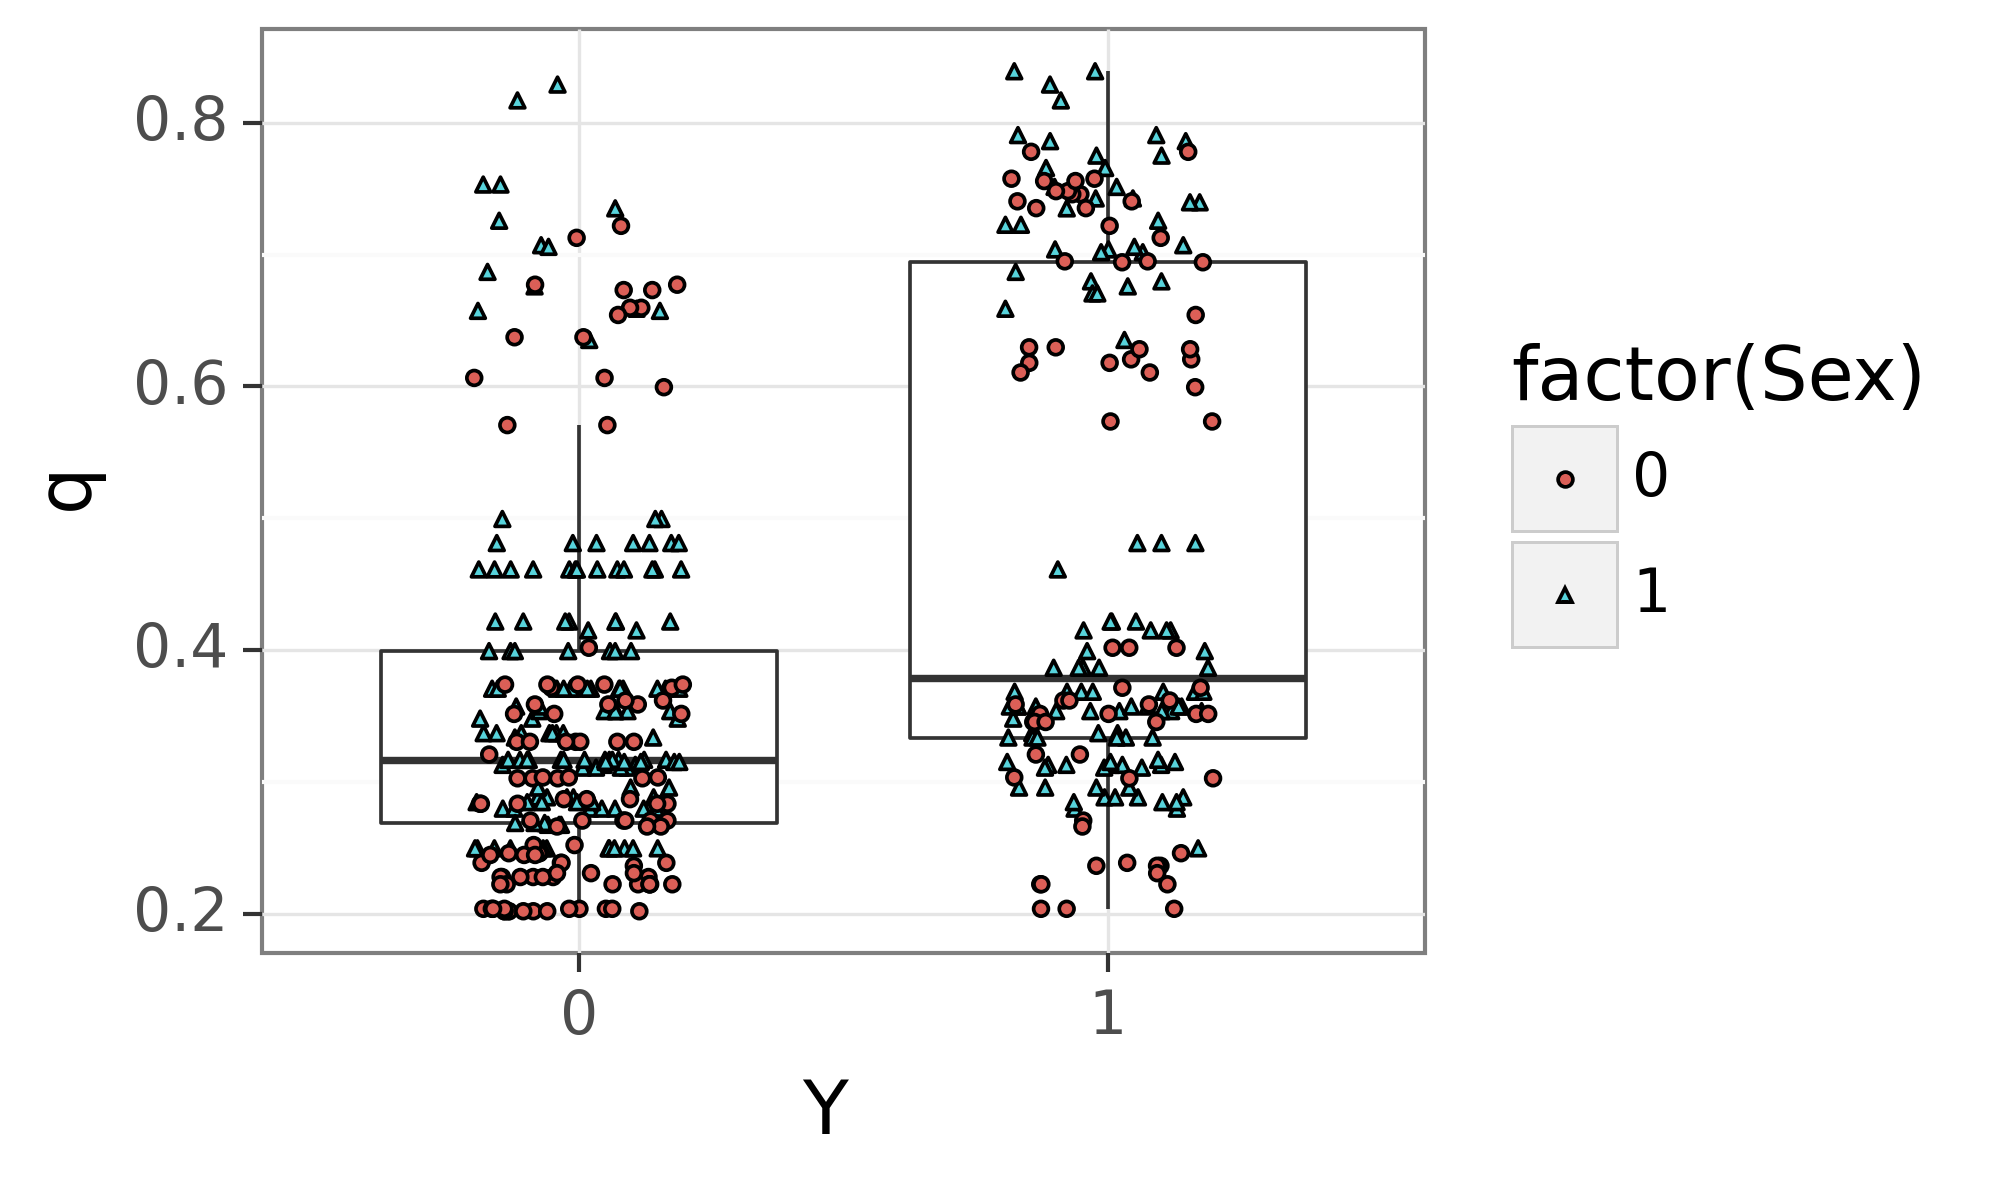
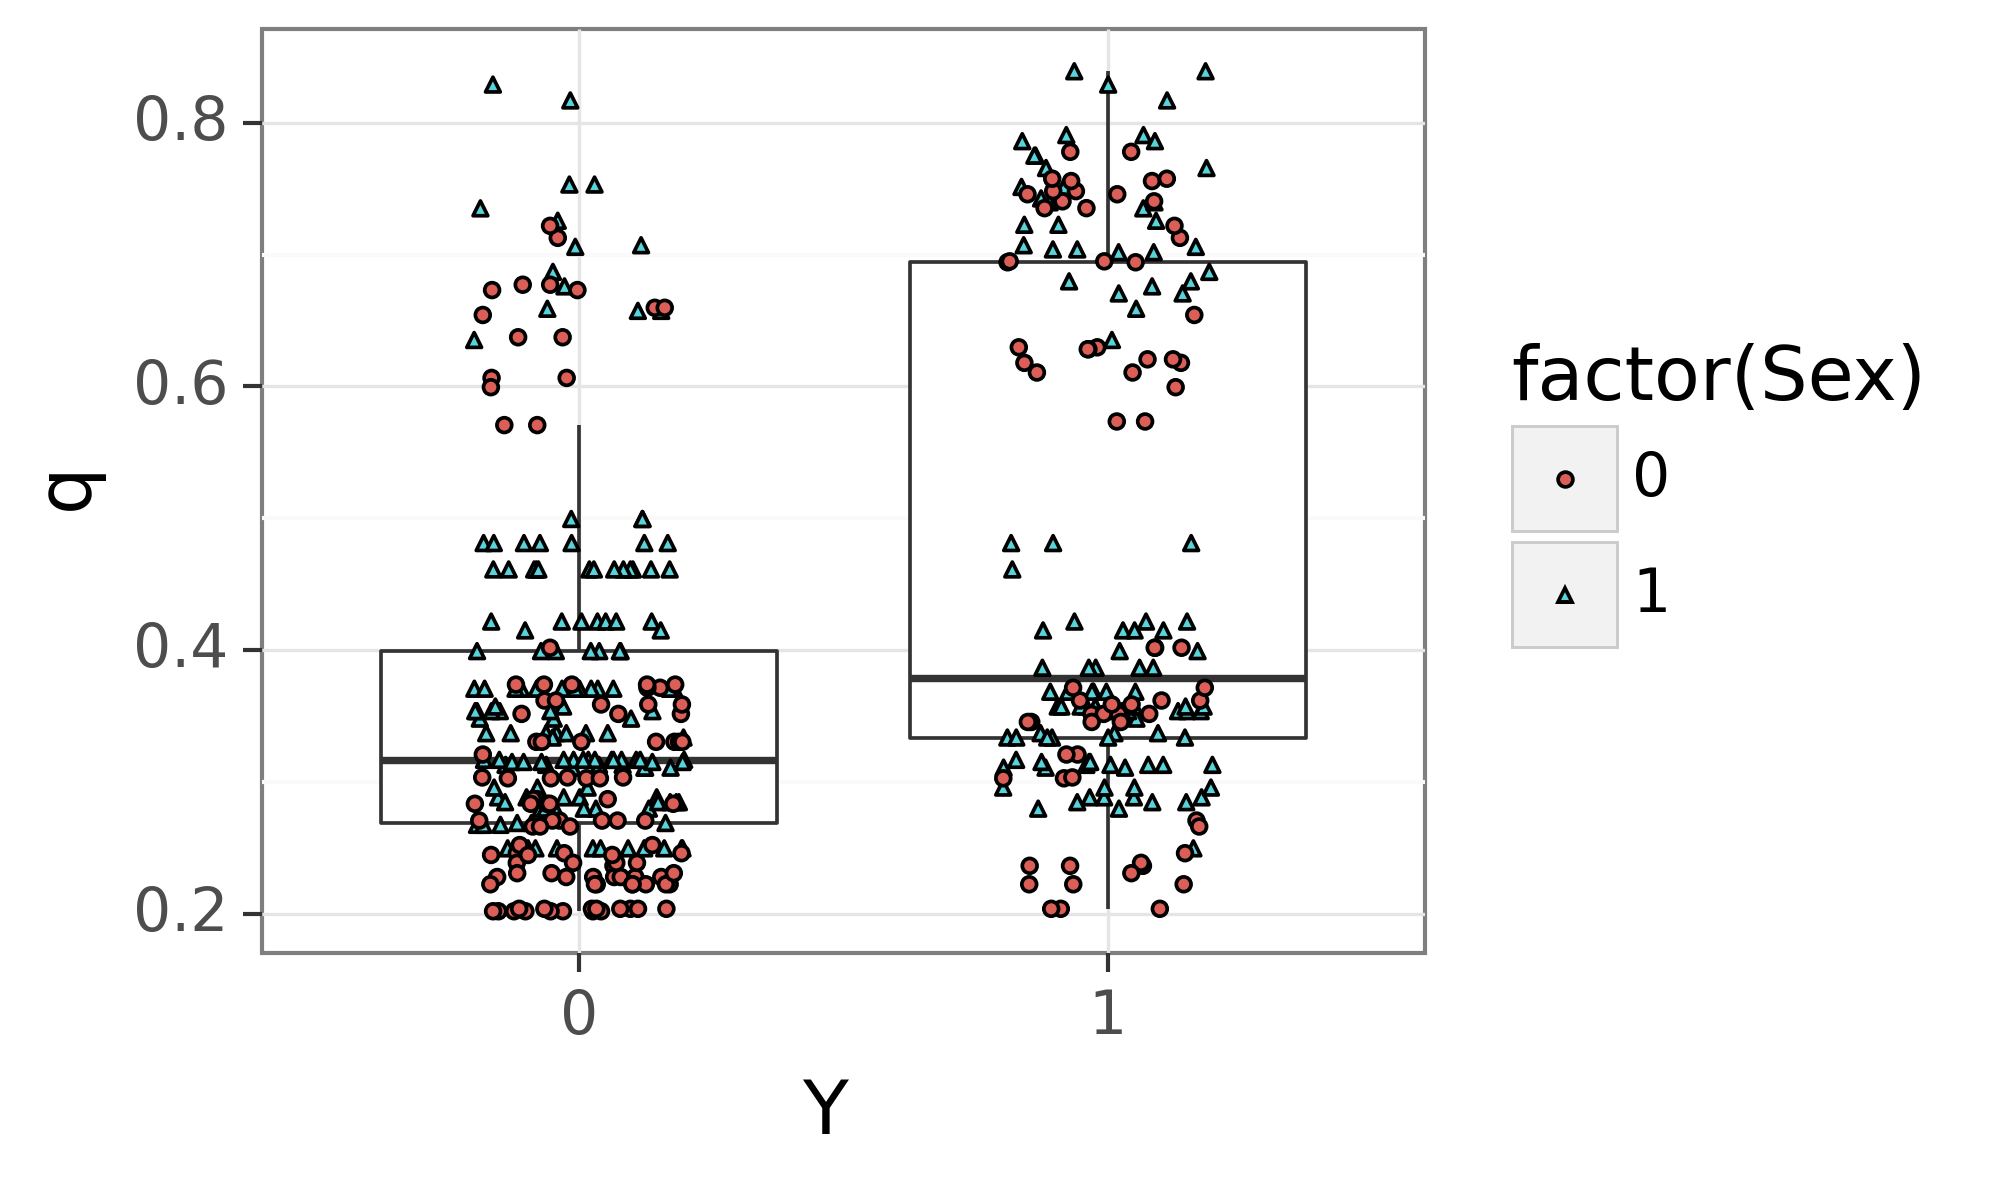
added Python code for Chap. 5

diff --git a/chap05/fig5-7-right.py b/chap05/fig5-7-right.py
@@ -1,0 +1,35 @@
+import pandas
+import cmdstanpy
+import numpy as np
+from sklearn.metrics import roc_curve, auc
+from plotnine import *
+
+d = pandas.read_csv('input/data-shopping-3.csv')
+fit = cmdstanpy.from_csv('output/result-model5-5')
+q_ms = fit.stan_variable(var='q')
+N_ms = len(q_ms)
+xp = np.linspace(0, 1, 201)
+probs = [0.1, 0.5, 0.9]
+
+auces = np.empty(N_ms)
+m_roc = np.empty((N_ms, len(xp)))
+for i in range(N_ms):
+    fpr, tpr, thresholds = roc_curve(d.Y, q_ms[i,:], drop_intermediate=False)
+    auces[i] = auc(fpr, tpr)
+    m_roc[i,:] = np.interp(xp, fpr, tpr)
+
+# np.quantile(auces, probs)
+qua = np.quantile(m_roc, probs, axis=0)
+d_est = pandas.DataFrame(np.column_stack([xp, qua.T]), \
+    columns=['X', '10%', '50%', '90%'])
+
+p = (ggplot(d_est, aes(x='X', y='50%'))
+  + theme_bw(base_size=18)
+  + theme(legend_position='none')
+  + coord_fixed(ratio=1, xlim=[0,1], ylim=[0,1])
+  + geom_abline(intercept=0, slope=1, alpha=0.5)
+  + geom_ribbon(aes(ymin='10%', ymax='90%'), fill='black', alpha=2/6)
+  + geom_line(size=1)
+  + labs(x='False Positive', y='True Positive')
+)
+p.save(filename='output/fig5-7-right.py.png', dpi=300, width=4, height=4)

diff --git a/chap05/fig5-7-left.py b/chap05/fig5-7-left.py
@@ -3,6 +3,8 @@ import cmdstanpy
 import numpy as np
 from plotnine import *
 
+np.random.seed(123)
+
 d = pandas.read_csv('input/data-shopping-3.csv')
 fit = cmdstanpy.from_csv('output/result-model5-5')
 q_ms = fit.stan_variable(var='q')
